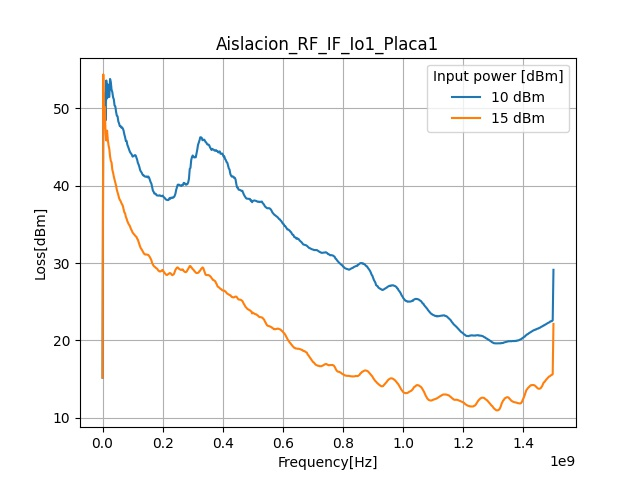
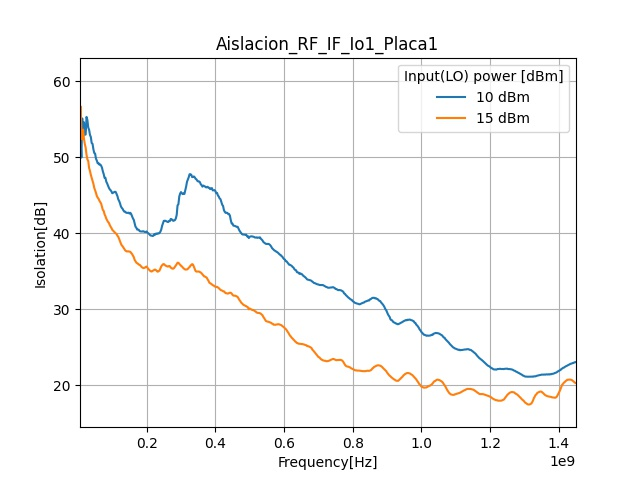
cambios

diff --git a/plotcsv.py b/plotcsv.py
@@ -3,57 +3,63 @@ import numpy as np
 from classCSV.extratCSV import extratCSV
 
 '''
-_________LO-IF
+https://www.minicircuits.com/pdfs/QCN-13D+.pdf 
+https://ar.mouser.com/datasheet/2/1030/EP2RCW_2b-1858382.pdf
+https://www.minicircuits.com/pdfs/SYM-63LH+.pdf
+_________Primera mediciones LO-IF (Respuesta mixer):
 Con los mixer se tuvo en cuenta las peridas de los splitter 8,5dB EP2RCW(hoja de datos)
-y splitter en cuadratura 5.5 dB QCN-13D+ (medidos, en la hoja de datos era de 3.2 aprox)
+y splitter en cuadratura 4.0 dB QCN-13D+ (medidos!, en la hoja de datos era de 3.2 aprox)
+Para ver la asilacion se hizo --» abs(salida - entradaAlMixer); entradaAlMixer = inputdBm-8.5-4.0
+_________Aclaraciones:
 No se tiene los .cv de 20dBm por que el generador no garantizaba salida cte con 20dBm para todas las frecuencias
-_Tareas:
+_________Tareas:
 Graficar RF-FI
 Probar con los generadores usb en modo inverso en las 2 entradas
 '''
 #######################################
-# ##LO-IF-Io1
 # tema          = 'Aislacion_entre_puertos_LO-IF'
+##########LO-IF-Io1
 # value         = ['10 dBm','15 dBm']
 # outputPort    = 'Io1'
 # numerosCsv    = 2
 # path1         = "image_and_csv/csv/TRACE1:LO+IF+10DBM[500MHZ+1500MHZ].CSV"
 # path2         = "image_and_csv/csv/TRACE1:LO+IF+15DBM[500MHZ+1500MHZ].CSV"
+# tiltePlot     = 'Respuesta Mixer '+ outputPort
 # path3 = "image_and_csv/csv/TRACE1:LO+IF+20DBM[500MHZ+1500MHZ].CSV" 
 
-#######################################
-##LO-IF-Io2
-# tema          = 'Aislacion_entre_puertos_LO-IF'
+##########LO-IF-Io2
 # value         = ['10 dBm','15 dBm']
 # outputPort    = 'Io2'
 # numerosCsv    = 2
 # path1         = "image_and_csv/csv/TRACE1:LO+IF+I2+10DBM[500MHZ+1500MHZ].CSV"
 # path2         = "image_and_csv/csv/TRACE1:LO+IF+I2+15DBM[500MHZ+1500MHZ].CSV"
+# tiltePlot     = 'Respuesta Mixer '+ outputPort
 # path3 = "image_and_csv/csv/TRACE1:LO+IF+I2+20DBM[500MHZ+1500MHZ].CSV"
 
-#######################################
-##LO-IF-Q1
-# tema            = 'Aislacion_entre_puertos_LO-IF'
+############LO-IF-Q1
 # value           = ['10 dBm','15 dBm']
 # outputPort      = 'Qo1'
 # numerosCsv      = 2
 # path1           = "image_and_csv/csv/TRACE1:LO+IF+Q1+10DBM[500MHZ+1500MHZ].CSV"
 # path2           = "image_and_csv/csv/TRACE1:LO+IF+Q1+15DBM[500MHZ+1500MHZ].CSV"
+# tiltePlot       = 'Respuesta Mixer '+ outputPort
+
 # path3 = "image_and_csv/csv/TRACE1:LO+IF+Q1+20DBM[500MHZ+1500MHZ].CSV"
 
-#######################################
-##LO-IF-Q2
-# tema            = 'Aislacion_entre_puertos_LO-IF'
+
+############LO-IF-Q2
 # value           = ['10 dBm','15 dBm']
 # outputPort      = 'Qo2'
 # numerosCsv      = 2
 # path1           = "image_and_csv/csv/TRACE1:LO+IF+Q2+10DBM[500MHZ+1500MHZ].CSV"
 # path2           = "image_and_csv/csv/TRACE1:LO+IF+Q2+15DBM[500MHZ+1500MHZ].CSV"
+# tiltePlot       = 'Respuesta Mixer '+ outputPort
+
 # path3         = "image_and_csv/csv/TRACE1:LO+IF+Q2+20DBM[500MHZ+1500MHZ].CSV"
 
-#######################################
-##Respuesta Splitter Cos1
+######################################################################################################################
 # tema            = 'Respuesta_Splitter'
+############Respuesta Splitter Cos1
 # value           = ['5 dBm','10 dBm','15 dBm']
 # outputPort      = 'Cos1'
 # numerosCsv      = 3
@@ -61,9 +67,7 @@ Probar con los generadores usb en modo inverso en las 2 entradas
 # path2           = "image_and_csv/csv/TRACE1:RESPUESTASPLITTER+COS1+10DBM[675MHZ+1300MHZ].CSV"
 # path3           = "image_and_csv/csv/TRACE1:RESPUESTASPLITTER+15DBM[675MHZ+1300MHZ].CSV"
 
-#######################################
-##Respuesta Splitter Sen 1
-# tema            = 'Respuesta_Splitter'
+############Respuesta Splitter Sen 1
 # value           = ['5 dBm','10 dBm','15 dBm']
 # outputPort      = 'Sen1'
 # numerosCsv      = 3
@@ -72,18 +76,17 @@ Probar con los generadores usb en modo inverso en las 2 entradas
 # path3           = "image_and_csv/csv/TRACE1:RESPUESTASPLITTER+SEN1+15DBM[675MHZ+1300MHZ].CSV"
 
 
-#######################################
-## Aislacion RF-IF-Io1
+#######################################################################################
 tema            = 'Aislacion_RF_IF'
-value           = ['10 dBm','15 dBm']
-outputPort      = 'Io1'
-numerosCsv      = 2
-path1           ="image_and_csv/csv/TRACE1:RF+IF+I1+10DBM[0MHZ+2000MHZ].CSV"
-path2           ="image_and_csv/csv/TRACE1:RF+IF+I1+15DBM[0MHZ+2000MHZ].CSV"
+############ Aislacion RF-IF-Io1
+# value           = ['10 dBm','15 dBm']
+# outputPort      = 'Io1'
+# numerosCsv      = 2
+# path1           ="image_and_csv/csv/TRACE1:RF+IF+I1+10DBM[0MHZ+2000MHZ].CSV"
+# path2           ="image_and_csv/csv/TRACE1:RF+IF+I1+15DBM[0MHZ+2000MHZ].CSV"
 
 #######################################
-## Aislacion RF-IF-Io2
-# tema            = 'Aislacion_RF_IF'
+############Aislacion RF-IF-Io2
 # value           = ['10 dBm','15 dBm']
 # outputPort      = 'Io2'
 # numerosCsv      = 2
@@ -92,16 +95,14 @@ path2           ="image_and_csv/csv/TRACE1:RF+IF+I1+15DBM[0MHZ+2000MHZ].CSV"
 
 #######################################
 ## Aislacion RF-IF-Qo1
-# tema            = 'Aislacion_RF_IF'
-# value           = ['10 dBm','15 dBm']
-# outputPort      = 'Qo1'
-# numerosCsv      = 2
-# path1           ="image_and_csv/csv/TRACE1:RF+IF+Q1+10DBM[0MHZ+2000MHZ].CSV"
-# path2           ="image_and_csv/csv/TRACE1:RF+IF+Q1+15DBM[0MHZ+2000MHZ].CSV"
+value           = ['10 dBm','15 dBm']
+outputPort      = 'Qo1'
+numerosCsv      = 2
+path1           ="image_and_csv/csv/TRACE1:RF+IF+Q1+10DBM[0MHZ+2000MHZ].CSV"
+path2           ="image_and_csv/csv/TRACE1:RF+IF+Q1+15DBM[0MHZ+2000MHZ].CSV"
 
 #######################################
 ## Aislacion RF-IF-Qo2
-# tema            = 'Aislacion_RF_IF'
 # value           = ['10 dBm','15 dBm']
 # outputPort      = 'Qo2'
 # numerosCsv      = 2
@@ -117,21 +118,28 @@ tilte       ='{}_{}_{}'.format(tema,outputPort,placa)
 
 plt.figure(tema)
 for i in range(numerosCsv):
-    Lo_If       = extratCSV(paths[i])
-    frequency   = Lo_If.get_frequency()
-    dBm         = np.abs(Lo_If.get_dBm())
-    # dBm         = np.abs(Lo_If.get_dBm())-8.5-.4 #Resta de atenuacion en los spliter
+    Lo_If           = extratCSV(paths[i])
+    frequency       = Lo_If.get_frequency()
+    ##############
+    # #Aislacion IO-IF
+    # inputdBmMixer   = int(value[i].rsplit(' ')[0]) - 8.5 - 4.0
+    # dBm             = np.abs(np.array(Lo_If.get_dBm()) - inputdBmMixer)
+    ##############
+    ##Aislacion RF-IF
+    inputdBmMixer   = int(value[i].rsplit(' ')[0]) - 8.5 #tengo solo encuenta el spliter que divide la potencia
+    dBm             = np.abs(np.array(Lo_If.get_dBm()) - inputdBmMixer)
+    # dBm               = np.array(Lo_If.get_dBm())
     ##Spliter en cuadratura
     # dBm       = int(value[i].rsplit(' ')[0])- np.array(Lo_If.get_dBm()) 
     # atte      = np.mean(np.extract(np.array(dBm)<)#0,dBm))
     ###
     plt.plot(frequency,dBm,label=value[i])#'\n Atenuacion Promedio: ' + str(round(atte,3)))
     # print(np.mean(np.extract(np.abs(dBm))))
-    plt.legend(title='Input power [dBm]')
+    plt.legend(title='Input({}) power [dBm]'.format('LO'))
 
 
-plt.title(tilte);plt.xlabel('Frequency[Hz]');plt.ylabel('Loss[dBm]')
+plt.title(tilte);plt.xlabel('Frequency[Hz]');plt.ylabel('Isolation[dB]')
 plt.grid(True)
-# plt.xlim(0.7*10**9,1.3*10**9)
+plt.xlim(6*10**6,1.45*10**9)
 plt.savefig('/home/dario/Documentos/funda/fiMediciones/DSA815/image_and_csv/image/{}.jpg'.format(tilte))
 plt.show()

diff --git a/DSA815.py b/DSA815.py
@@ -43,14 +43,14 @@ class DSA815(vxi11.Instrument):
 
 # if __name__ == "__main__":
 #     main()
-nombre = 'RespuestaSplitter+Sen1+5dBm[675Mhz+1300Mhz]'
+nombre = 'Aislacion+RF+IF+Io1[100Mhz+10dBM]'
 instrument = DSA815('172.16.0.110')
 print(instrument.get_identification())
-if(0):#Trace
+if(1):#Trace
     instrument.get_trace(path='E:\Trace1',name=nombre)
 if(0):#peak table
     nombre = 'peaktable[input5dBm]'
     instrument.get_trace(path='E',name=nombre)
-if(1):
-    nombre='ModInv+I1+RF+RespMixer[100Mhz+15dBM]'
+if(0):
+    nombre='Aislacion+RF+IF+Io1[100Mhz+13dBM]'
     instrument.set_screen(name=nombre)
